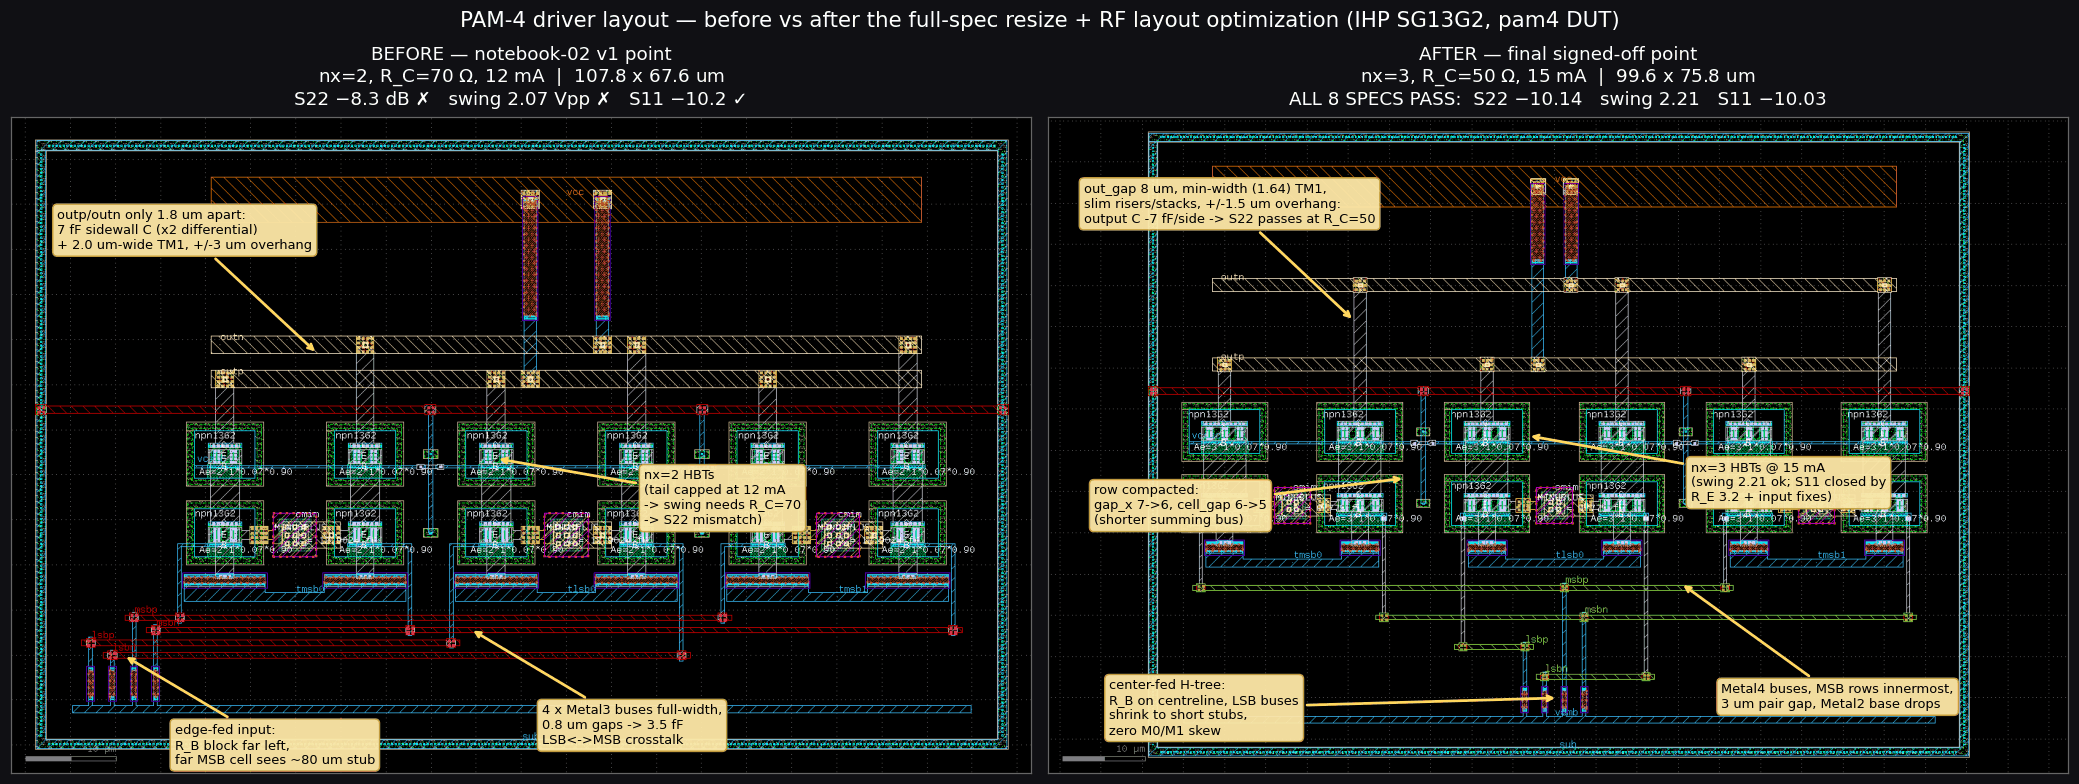
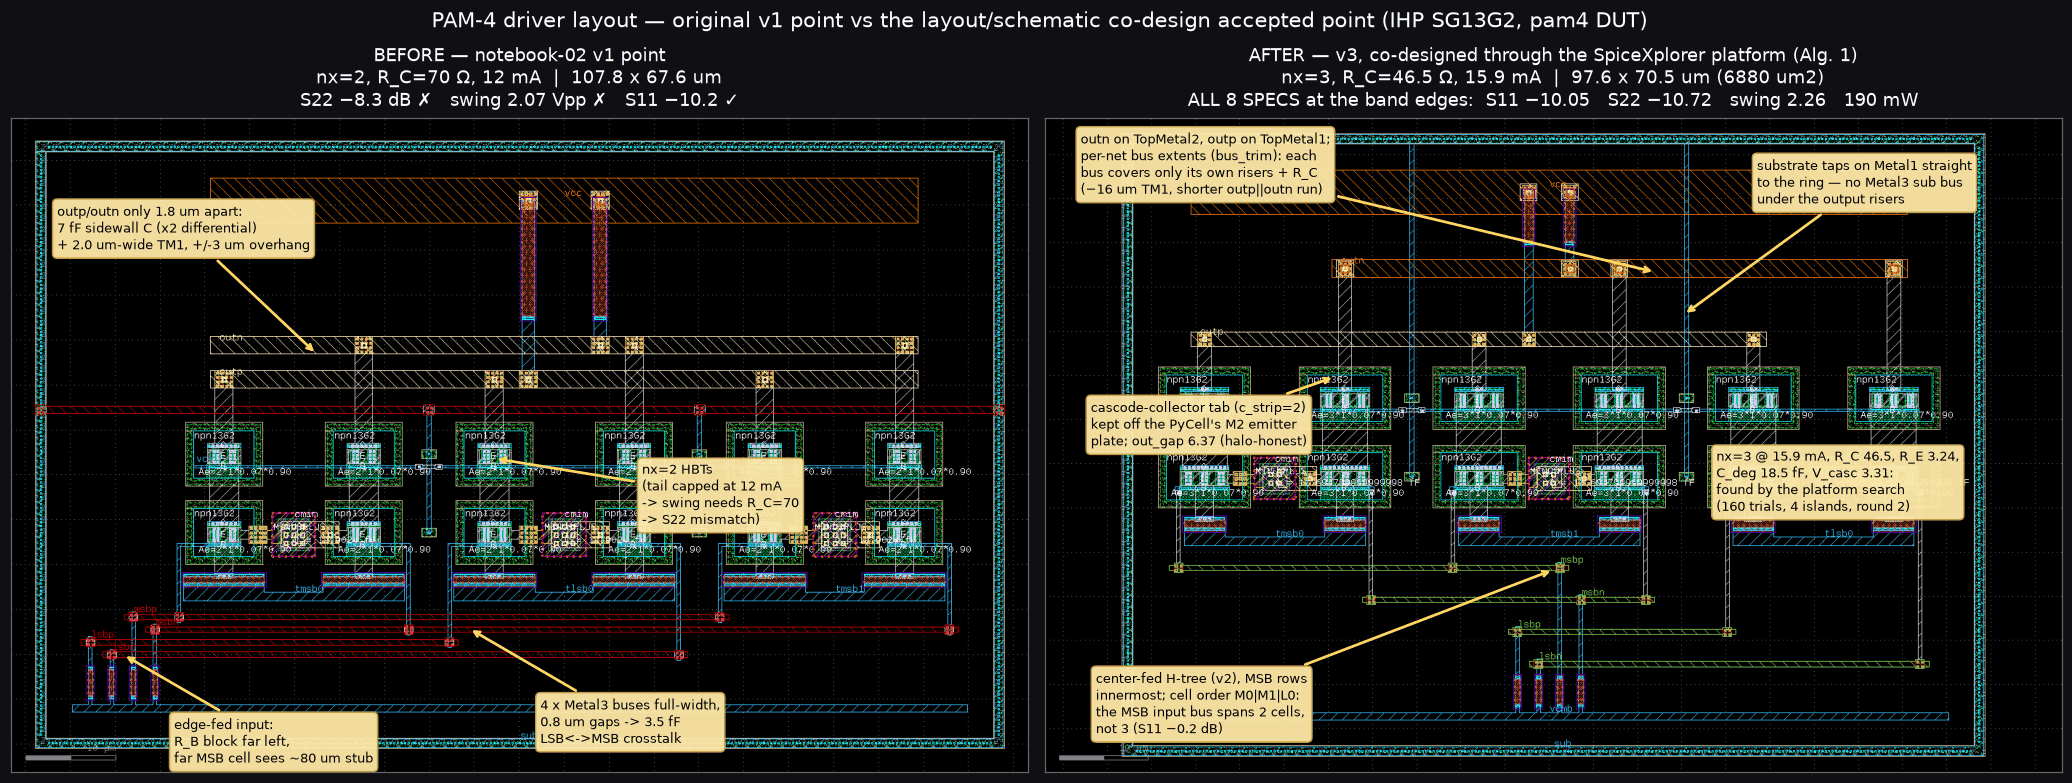
before/after on the PDK render: original v1 → v3 (before_after.png), v1 → v2 kept as before_after_v2.png; compare_layouts.py --after v2|v3; README
Claude-Session: https://claude.ai/code/session_018rSBEvU9yAsGF51i14eVV7

Changed region(s): [[0.0, 0.0, 0.9575, 1.0]]

diff --git a/layout/compare_layouts.py b/layout/compare_layouts.py
@@ -1,17 +1,23 @@
 #!/usr/bin/env python3
-"""Before/after layout comparison figure for the v2 resize.
+"""Before/after layout comparison figure (PDK render, annotated callouts).
 
-Regenerates the pam4 DUT at the notebook-02 v1 point (nx=2, R_C=70 on the
-original edge-fed floorplan — reconstructed via the LayoutParams defaults)
-and at the v2 signed-off point (`gen_layout.V2_LAYOUT`; the v3 co-design
-figures live in codesign/figures.py), renders
-both, and composes the annotated side-by-side written next to this script
-as ``before_after.png``.
+BEFORE is always the ORIGINAL layout — the notebook-02 v1 point (nx=2, R_C=70
+on the original edge-fed floorplan, reconstructed via the LayoutParams
+defaults). AFTER is selectable:
 
-    PDK_ROOT=~/local/pdks python compare_layouts.py
+    --after v3   (default) the co-design accepted point `gen_layout.FINAL_LAYOUT`
+                 -> before_after.png
+    --after v2   the 2026-08-09 block-local point `gen_layout.V2_LAYOUT`
+                 -> before_after_v2.png
+
+(The v2 -> v3 comparison with the changed regions boxed is
+codesign/figures.py before-after.)
+
+    PDK_ROOT=~/local/pdks python compare_layouts.py [--after v2|v3]
 """
 from __future__ import annotations
 
+import argparse
 import os
 import sys
 import tempfile
@@ -43,7 +49,24 @@ ANNOT = {
         ("nx=2 HBTs\n(tail capped at 12 mA\n-> swing needs R_C=70\n-> S22 mismatch)",
          (0.475, 0.52), (0.62, 0.62)),
     ],
-    "after": [
+    "after_v3": [
+        ("center-fed H-tree (v2), MSB rows\ninnermost; cell order M0|M1|L0:\n"
+         "the MSB input bus spans 2 cells,\nnot 3 (S11 −0.2 dB)",
+         (0.50, 0.69), (0.05, 0.94)),
+        ("outn on TopMetal2, outp on TopMetal1;\nper-net bus extents (bus_trim): each\n"
+         "bus covers only its own risers + R_C\n(−16 um TM1, shorter outp||outn run)",
+         (0.60, 0.235), (0.035, 0.115)),
+        ("substrate taps on Metal1 straight\nto the ring — no Metal3 sub bus\n"
+         "under the output risers",
+         (0.628, 0.30), (0.70, 0.13)),
+        ("nx=3 @ 15.9 mA, R_C 46.5, R_E 3.24,\nC_deg 18.5 fF, V_casc 3.31:\n"
+         "found by the platform search\n(160 trials, 4 islands, round 2)",
+         (0.83, 0.55), (0.66, 0.60)),
+        ("cascode-collector tab (c_strip=2)\nkept off the PyCell's M2 emitter\n"
+         "plate; out_gap 6.37 (halo-honest)",
+         (0.285, 0.395), (0.045, 0.50)),
+    ],
+    "after_v2": [
         ("center-fed H-tree:\nR_B on centreline, LSB buses\nshrink to short stubs,\n"
          "zero M0/M1 skew", (0.50, 0.885), (0.06, 0.94)),
         ("Metal4 buses, MSB rows innermost,\n3 um pair gap, Metal2 base drops",
@@ -62,17 +85,33 @@ TITLES = {
     "before": ("BEFORE — notebook-02 v1 point",
                "nx=2, R_C=70 $\\Omega$, 12 mA  |  107.8 x 67.6 um\n"
                "S22 −8.3 dB ✗   swing 2.07 Vpp ✗   S11 −10.2 ✓"),
-    "after": ("AFTER — final signed-off point",
-              "nx=3, R_C=50 $\\Omega$, 15 mA  |  99.6 x 75.8 um\n"
-              "ALL 8 SPECS PASS:  S22 −10.14   swing 2.21   S11 −10.03"),
+    "after_v2": ("AFTER — v2, block-local optimizer + RF review (2026-08-09)",
+                 "nx=3, R_C=50 $\\Omega$, 15 mA  |  99.6 x 75.8 um\n"
+                 "8 specs on the dec-20 grid: S22 −10.14  swing 2.21  S11 −10.03"
+                 "  (band edges: −9.24 / −9.94 ✗)"),
+    "after_v3": ("AFTER — v3, co-designed through the SpiceXplorer platform (Alg. 1)",
+                 "nx=3, R_C=46.5 $\\Omega$, 15.9 mA  |  97.6 x 70.5 um (6880 um2)\n"
+                 "ALL 8 SPECS at the band edges:  S11 −10.05   S22 −10.72   swing 2.26   190 mW"),
 }
+SUPTITLE = {
+    "after_v2": "PAM-4 driver layout — original v1 point vs the v2 full-spec resize + RF layout fixes (IHP SG13G2, pam4 DUT)",
+    "after_v3": "PAM-4 driver layout — original v1 point vs the layout/schematic co-design accepted point (IHP SG13G2, pam4 DUT)",
+}
+AFTER_PARAMS = {"after_v2": lambda: gen_layout.V2_LAYOUT,
+                "after_v3": lambda: gen_layout.FINAL_LAYOUT}
+OUTNAME = {"after_v2": "before_after_v2.png", "after_v3": "before_after.png"}
 
 
 def main() -> None:
+    ap = argparse.ArgumentParser(description=__doc__,
+                                 formatter_class=argparse.RawDescriptionHelpFormatter)
+    ap.add_argument("--after", choices=["v2", "v3"], default="v3")
+    a = ap.parse_args()
+    after = f"after_{a.after}"
     with tempfile.TemporaryDirectory() as tmp:
         pngs = {}
         for tag, params in (("before", V1),
-                            ("after", gen_layout.V2_LAYOUT)):
+                            (after, AFTER_PARAMS[after]())):
             gen_layout.generate("pam4", gen_layout.LayoutParams(**params),
                                 os.path.join(tmp, tag))
             pngs[tag] = os.path.join(tmp, f"{tag}.png")
@@ -83,7 +122,7 @@ def main() -> None:
         kw_box = dict(boxstyle="round,pad=0.35", fc="#ffe9a8",
                       ec="#c8a03c", alpha=0.95)
         kw_arr = dict(arrowstyle="->", color="#ffd75e", lw=1.8)
-        for ax, tag in zip(axes, ("before", "after")):
+        for ax, tag in zip(axes, ("before", after)):
             img = mpimg.imread(pngs[tag])
             H, W = img.shape[0], img.shape[1]
             ax.imshow(img)
@@ -96,11 +135,9 @@ def main() -> None:
                 ax.annotate(text, xy=(xa * W, ya * H),
                             xytext=(xt * W, yt * H), fontsize=8.5,
                             bbox=kw_box, arrowprops=kw_arr)
-        fig.suptitle("PAM-4 driver layout — before vs after the full-spec "
-                     "resize + RF layout optimization (IHP SG13G2, pam4 DUT)",
-                     color="w", fontsize=14, y=0.995)
+        fig.suptitle(SUPTITLE[after], color="w", fontsize=14, y=0.995)
         fig.tight_layout(rect=(0, 0, 1, 0.97))
-        out = os.path.join(HERE, "before_after.png")
+        out = os.path.join(HERE, OUTNAME[after])
         fig.savefig(out, dpi=110, facecolor=fig.get_facecolor(),
                     bbox_inches="tight")
         # palette-quantize: flat-colour layout render, ~4x smaller in git

diff --git a/layout/README.md b/layout/README.md
@@ -28,7 +28,8 @@ signoff.py          DRC + LVS wrapper (per DUT)      -> out/signoff/
 pex_sim.py          kpex 2.5D PEX + pre/post ngspice .op/.ac comparison (KPEX_HALO_UM overrides the tech's 8 um sidewall halo)
 optimize_layout.py  nevergrad loop: gen -> DRC/LVS gate -> PEX -> sim (the block-local v1/v2 loop)
 codesign/           the same loop run THROUGH spicexplorer-optimize (sim_engine: layout) — Alg. 1 of the paper; rounds, record, figures
-compare_layouts.py  v1 defaults vs V2_LAYOUT before/after (the v2 story); codesign/figures.py draws the v2 -> v3 one
+compare_layouts.py  before/after on the PDK render: original v1 vs v3 (before_after.png, default) or vs v2 (--after v2);
+                    codesign/figures.py draws the v2 -> v3 one with changed regions boxed
 render.py           GDS -> PNG (IHP layer colors)
 out/                dut_<d>.gds/.png, dut_<d>_{lvs,kpex,sim}.spice (at FINAL_LAYOUT = v3),
                     signoff/, pex/ (dut_<d>_post.spice, metrics_v3_*.json), pex_report.yaml
@@ -196,8 +197,9 @@ group-delay variation + extracted-rail stability (K-factor, odd-mode)
 before tapeout; 2-row floorplan held in reserve (halves the summing bus →
 ~+1.5 dB more S22 margin) if larger margins are required.
 
-Before/after figure of the v2 optimization: `before_after.png`
-(regenerate with `compare_layouts.py`).
+Before/after figure of the v2 optimization: `before_after_v2.png`
+(regenerate with `compare_layouts.py --after v2`; `before_after.png` is the
+original v1 → v3 comparison, `--after v3`).
 
 ## 2026-08-18 (v3): layout/schematic co-design through the SpiceXplorer platform — ALL 8 SPECS PASS, honestly measured
 
@@ -237,5 +239,7 @@ DRC + LVS PASS on all three DUTs; kpex RC mode (1861 wiring R) reproduces the
 CC scorecard exactly. Margins are thin by construction (S11 is
 device-limited at ≈ −11.4 dB with zero wiring; the S22 floor is the cascode
 junction C at −14.5 dB) — the full budget, the ceiling analysis, the rounds
-table and the figures (`pam4_layout_annotated.png`, `before_after.png`,
-`rounds.png`) are in `codesign/README.md`; notebook 04 reads the record.
+table and the figures (`codesign/pam4_layout_annotated.png`,
+`codesign/before_after.png` = v2 → v3 boxed, `codesign/rounds.png`) are in
+`codesign/README.md`; `before_after.png` here is original v1 → v3 on the PDK
+render; notebook 04 reads the record.

diff --git a/README.md b/README.md
@@ -13,15 +13,19 @@ executed notebooks; every result below reproduces from this repo.
 
 ## The layout journey
 
+Original v1 layout (edge-fed input, 1.8 µm output-bus gap, nx=2 / R_C=70 Ω
+electrical point) → the co-designed layout of record (v3):
+
+![before/after layout: original v1 vs co-designed v3](layout/before_after.png)
+
 The first optimization pass scored only S11/BW/gain/power — and its winner
 (nx=2, R_C=70 Ω) sailed through those while silently **failing S22
 (−8.3 dB) and output swing (2.07 Vpp)**, caught by the full signoff
 (notebook 03). An expert RF layout review + a directed probe ladder
-produced the fix, and the punchline: **once the layout was repaired, the
-electrical optimum returned to the paper's nominal topology** (nx=3,
-R_C=50 Ω) — the odd v1 sizing had been compensating layout parasitics.
-
-![before/after layout](layout/before_after.png)
+produced the v2 fix (`layout/before_after_v2.png` shows v1 → v2), and the
+punchline: **once the layout was repaired, the electrical optimum returned to
+the paper's nominal topology** (nx=3, R_C=50 Ω) — the odd v1 sizing had been
+compensating layout parasitics.
 
 | step | what was learned / changed | effect |
 |---|---|---|
@@ -119,7 +123,7 @@ testbenches/  driver_lib.py — netlist-agnostic benches (schematic AND
 layout/       gen_layout.py (parameterized generator, FINAL_LAYOUT = v3,
               V2_LAYOUT), signoff.py (DRC+LVS, vendored PDK runner),
               pex_sim.py (kpex), optimize_layout.py (block-local v1/v2 loop),
-              LAYOUT_REVIEW.md, before_after.png (v1 -> v2),
+              LAYOUT_REVIEW.md, before_after.png (v1 -> v3; _v2 = v1 -> v2),
               codesign/ (Alg. 1 through spicexplorer-optimize: flow.yaml,
               project_setup.yaml, measure hook, rounds/, results/, figures),
               out/ (final GDS, netlists, PEX, renders)
